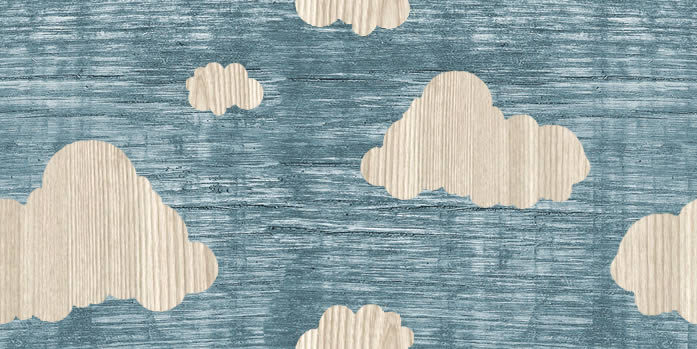
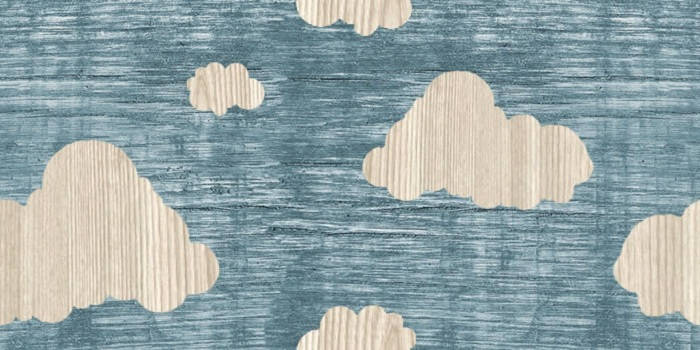
added up/down scrolling

diff --git a/game.html b/game.html
@@ -1,4 +1,4 @@
-<APPLET CODE = "game.class" WIDTH=697 HEIGHT=349>
+<APPLET CODE = "game.class" WIDTH=700 HEIGHT=350>
 
 </APPLET>
 

diff --git a/game.java b/game.java
@@ -5,6 +5,7 @@ import java.awt.*;
 public class game extends Applet implements KeyListener
 {
 	int i = 0;
+	int j = 0;
  	AudioClip soundFile1;
 	AudioClip soundFile2;
 	Image snoopy;
@@ -14,33 +15,43 @@ public class game extends Applet implements KeyListener
 		soundFile1 = getAudioClip(getDocumentBase(),"BEAST_FICTION.wav");
 		soundFile2 = getAudioClip(getDocumentBase(),"shootS.au");
 		snoopy = getImage(getDocumentBase(),"snoopy.gif");
-		background = getImage(getDocumentBase(),"back.jpg");
+		background = getImage(getDocumentBase(),"testback.jpg");
 		addKeyListener(this);
 		soundFile1.play();
 	}
+
 	public void paint(Graphics g)
 	{
-		g.drawImage(background,0-i,0,this);
-		g.drawImage(background,697-i,0,this);
+		g.drawImage(background,0-i,j,this);
+		g.drawImage(background,700-i,j,this);
+
 		g.drawImage(snoopy,300,180,this);
-		i+=2;
-		if(i>697)
-			i-=697;
+
+		i+=2; // Gives continuous scrolling while keys aren't doing shit
+
+		//Restarts the background
+		if(i>700)
+			i-=700;
 		if(i<0)
-			i+=697;
+			i+=700;
 	}
+
 	public void keyPressed(KeyEvent ke) {
 		switch(ke.getKeyCode())
 		{
 			case KeyEvent.VK_DOWN:
+			//	if (j != -70) {
+					j-=5;// }
 				break;
 			case KeyEvent.VK_RIGHT:
-				i+=5;
+				i+=3;
 				break;
 			case KeyEvent.VK_LEFT:
-				i-=5;
+				i-=3;
 				break;
 			case KeyEvent.VK_UP:
+				if (j < 0) { //Limitations so the view does not fuck over
+					j+=5;	}
 				break;
 		}
 	}
